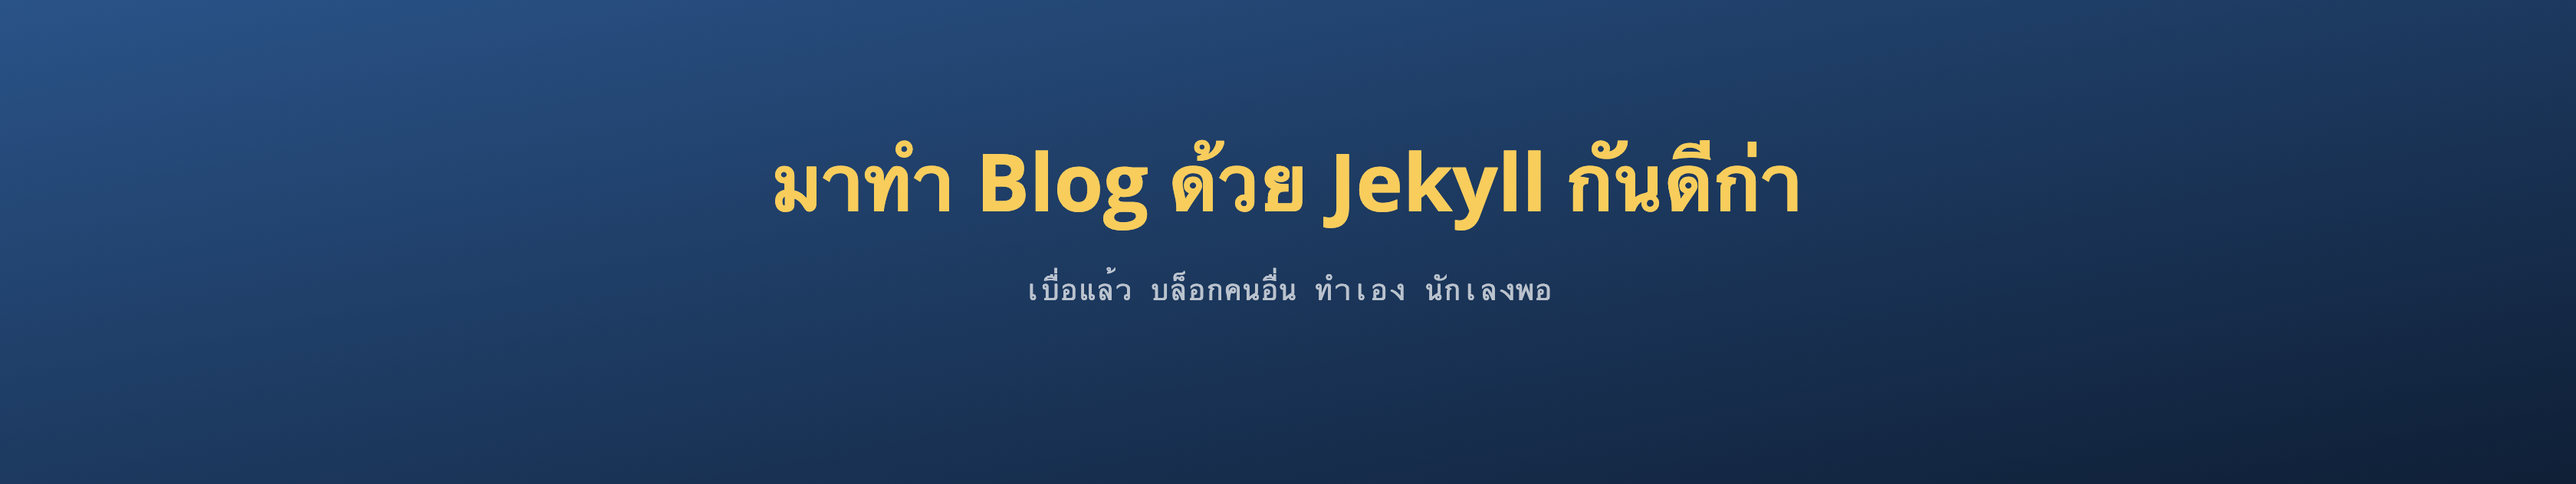
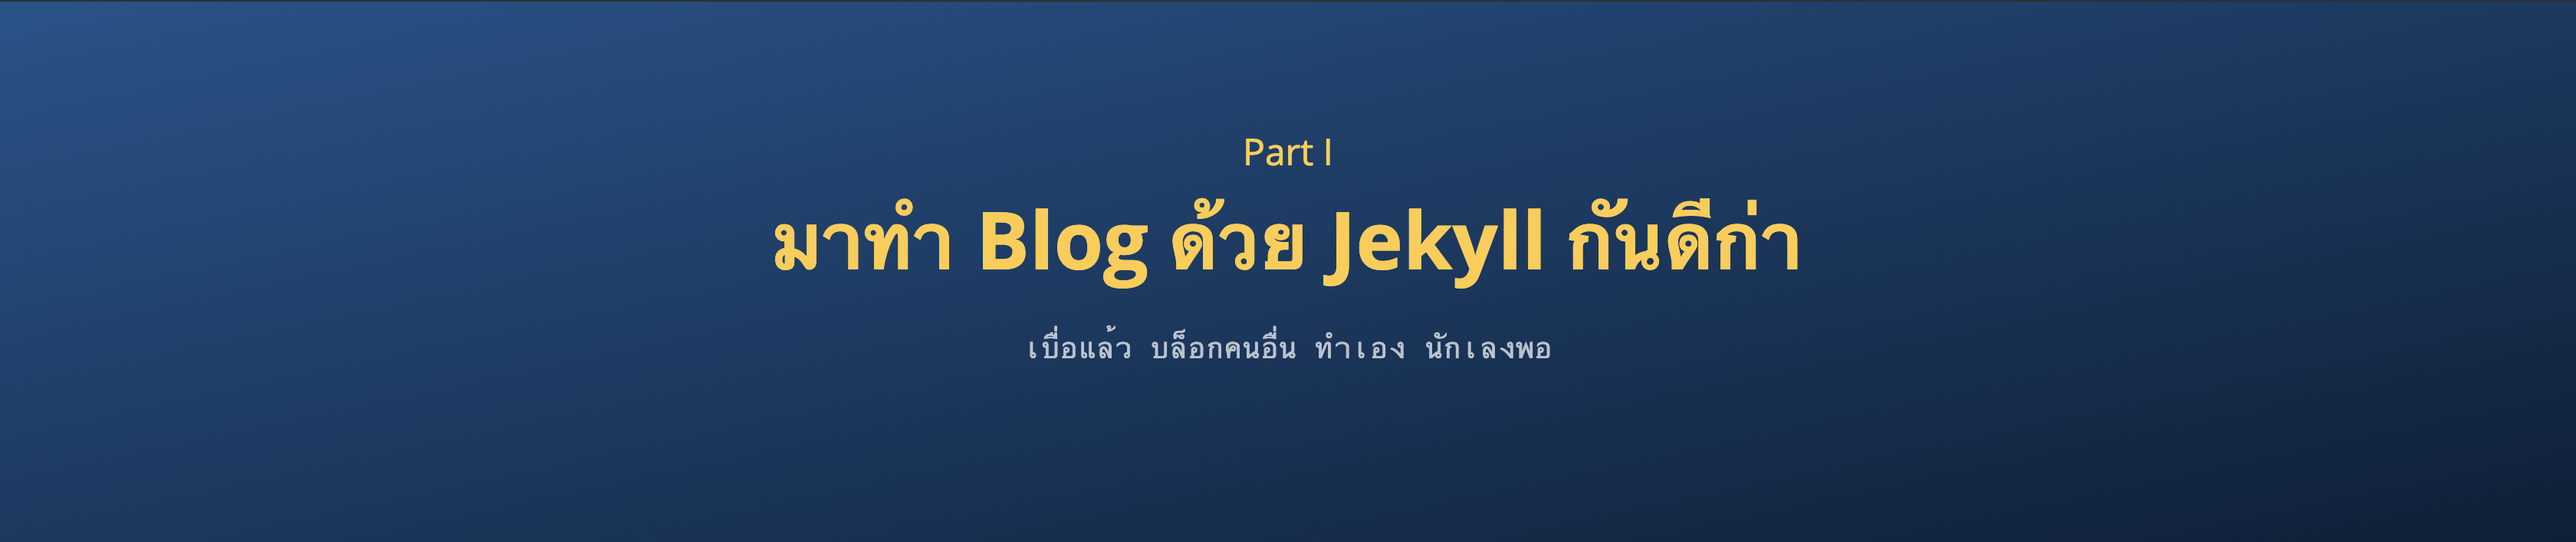
add more elements

Changed region(s): [[0.2812, 0.2706, 0.7188, 0.5411], [0.0, 0.0, 1.0, 0.0301], [0.4062, 0.5712, 0.625, 0.6614]]

diff --git a/assets/css/style.scss b/assets/css/style.scss
@@ -39,6 +39,10 @@ a {
         margin: 0;
         padding: 0;
     }
+    hr {
+        height: 1px;
+        margin: 30px 0 0 0;
+    }
 }
 
 .project-name {
@@ -121,6 +125,17 @@ a {
     }
 }
 
+.span-wrapper {
+    span {
+        margin: 0 5px 0 0;
+        padding: 5px 15px;
+        border-radius: 20px;
+        font-size: 0.8em;
+        background: #1c538c;
+        color: #FFF;
+    }
+}
+
 .post-body {
     line-height: 1.8;
     letter-spacing: 0.2px;
@@ -189,5 +204,48 @@ a {
         font-weight: 900;
         font-size: 2em;
         color: #f9b800;
+    }
+}
+
+.series-episode {
+    color: $hover-text-color;
+    font-size: 1.5em;
+}
+
+@media only screen and (max-width: 768px) {
+    .post-body {
+        .signature {
+            font-size: 1.5em;
+        }
+    }
+    .post-footer-wrapper {
+        flex-direction: column;
+        .back-button {
+            order: 2;
+        }
+        .date-wrapper {
+            order: 1;
+            width: 100%;
+            margin-bottom: 20px;
+            .date {
+                display: flex;
+                flex-direction: column;
+            }
+        }
+    }
+    .site-footer {
+        flex-direction: column;
+        align-items: center;
+        > .div {
+            margin-bottom: 20px;
+        }
+    }
+
+    .home {
+        .post-list {
+            .post-link-wrapper {
+                flex-direction: column;
+            }
+        }
     }
 }

diff --git a/_layouts/post.html b/_layouts/post.html
@@ -6,17 +6,17 @@ layout: default
 </div>
 
 <div class="post-footer-wrapper">
-    <div>
+    <div class="back-button">
         <a href="{{ site.baseurl }}/">
             <i class="fa fa-chevron-left"></i> Back
         </a>
     </div>  
-    <div>
-        <div>
-            <span class="post-date">วันที่เริ่มเขียน: {{ page.createdDate }}</span>
+    <div class="date-wrapper">
+        <div class="date">
+            <span class="post-date">วันที่เริ่มเขียน: </span><span>{{ page.createdDate | date: '%B %d, %Y %k:%M' }}</span>
         </div>
-        <div>
-            <span class="post-date">อัพเดตล่าสุด: {{ page.lastModifiedDate }}</span>
+        <div class="date">
+            <span class="post-date">อัพเดตล่าสุด: </span><span>{{ page.lastModifiedDate | date: '%B %d, %Y %k:%M' }}</span>
         </div>
     </div>
 </div>

diff --git a/_includes/header.html b/_includes/header.html
@@ -1,4 +1,12 @@
 <header class="page-header" role="banner">
+    {%- if page.series_episode -%}
+    <div class="series-episode">Part {{ page.series_episode }}</div>
+    {%- endif -%}
     <h1 class="project-name"><a class="header-text" href="{{ site.baseurl }}/">{{ page.topic | default: site.title | escape }}</a></h1>
     <h2 class="project-tagline"><code>{{ page.subtitle | default: page.description | default: site.description | default: site.github.project_tagline }}</code></h2>
+    <div class="span-wrapper">
+        {%- for tag in page.tags -%}
+        <span>{{ tag }}</span>
+        {%- endfor -%}
+    </div>
 </header>

diff --git a/_includes/head.html b/_includes/head.html
@@ -12,7 +12,6 @@
     <meta charset="UTF-8">
 
     {% seo %}
-    <meta property="og:image" content="{{ page.thumbnail | default: '/blog/assets/img/thumbnail.png' }}">
     <meta name="viewport" content="width=device-width, initial-scale=1">
     <meta name="theme-color" content="#157878">
     <meta name="apple-mobile-web-app-status-bar-style" content="black-translucent">

diff --git a/_includes/hidden-thumbnail.html b/_includes/hidden-thumbnail.html
@@ -1,0 +1,1 @@
+<img src="{{ include.image }}" style="display: none;" />
